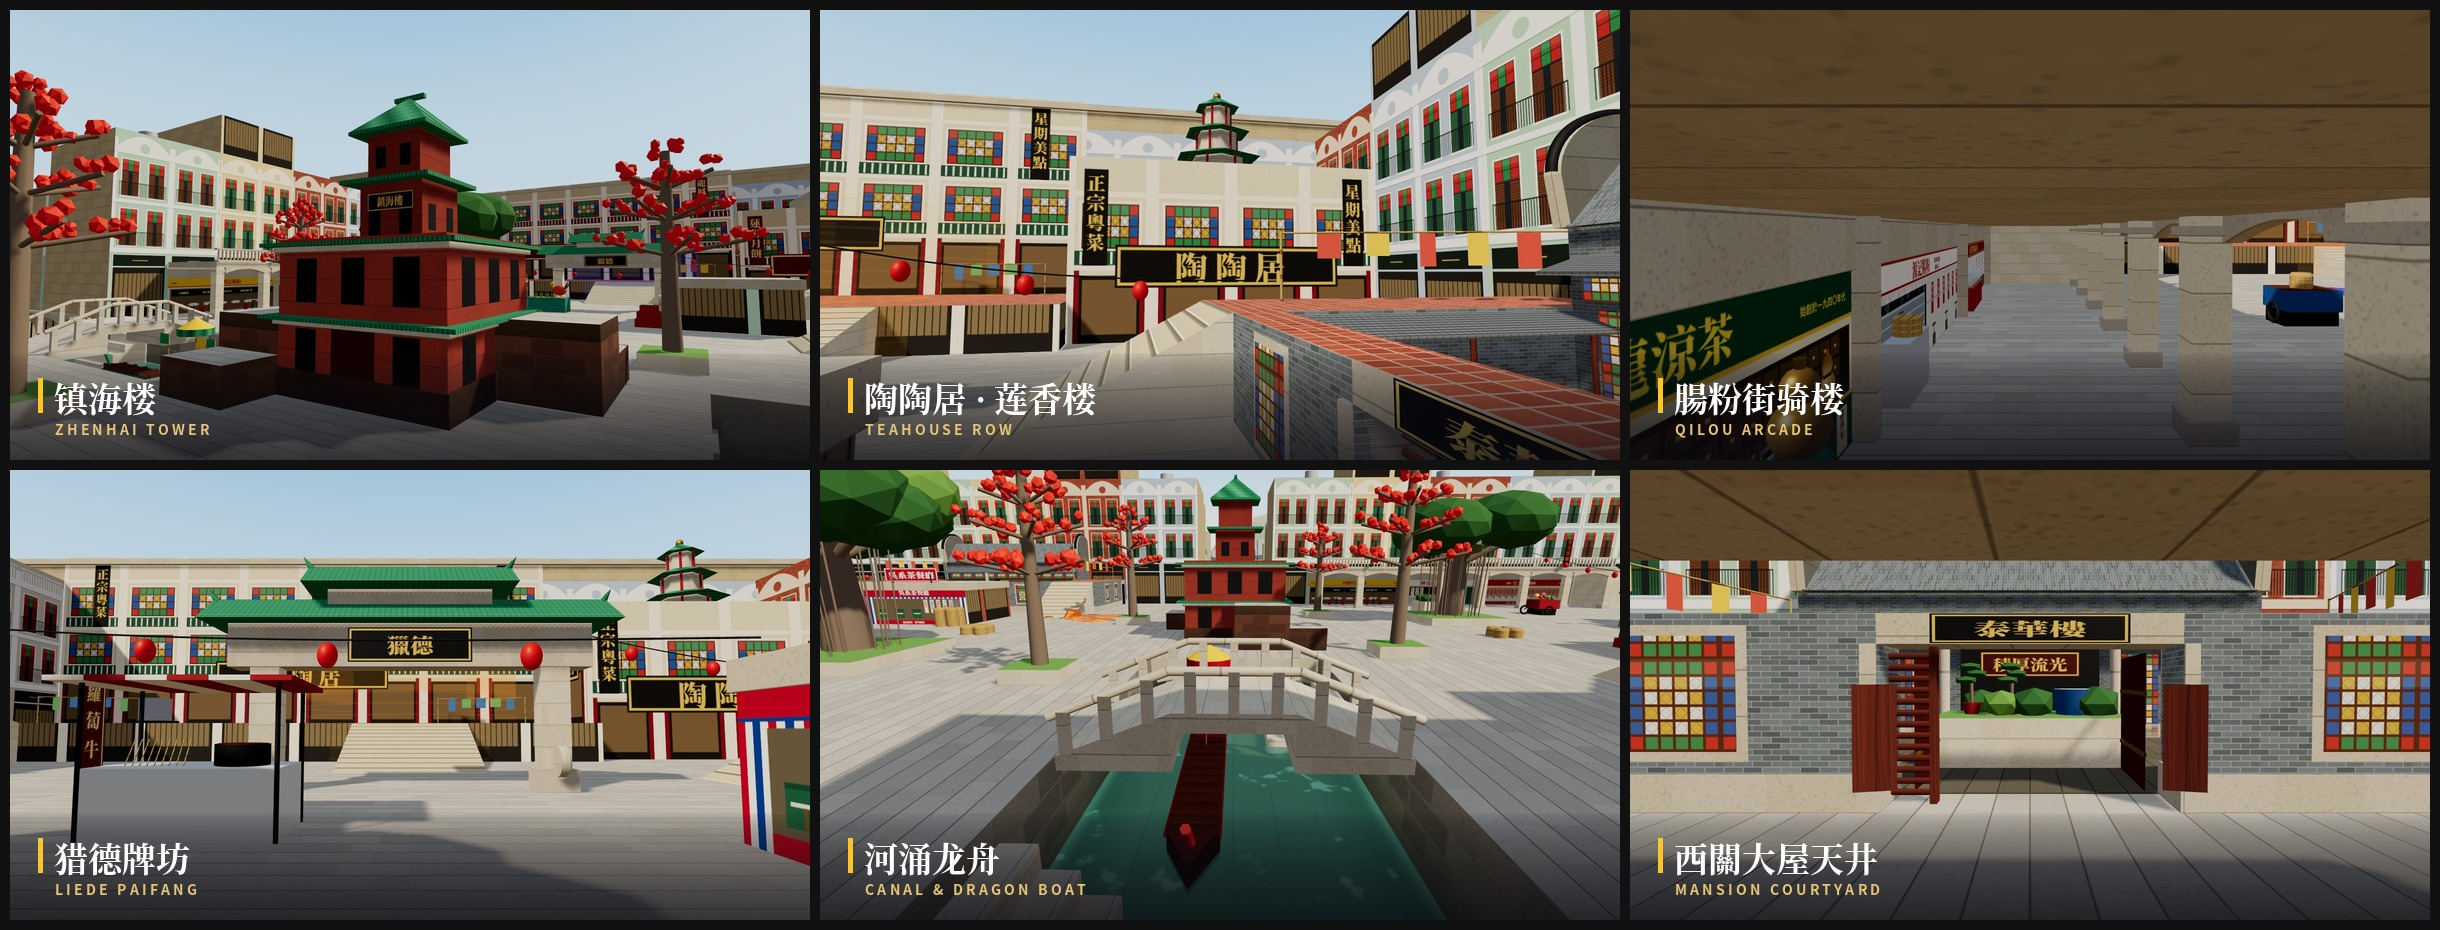
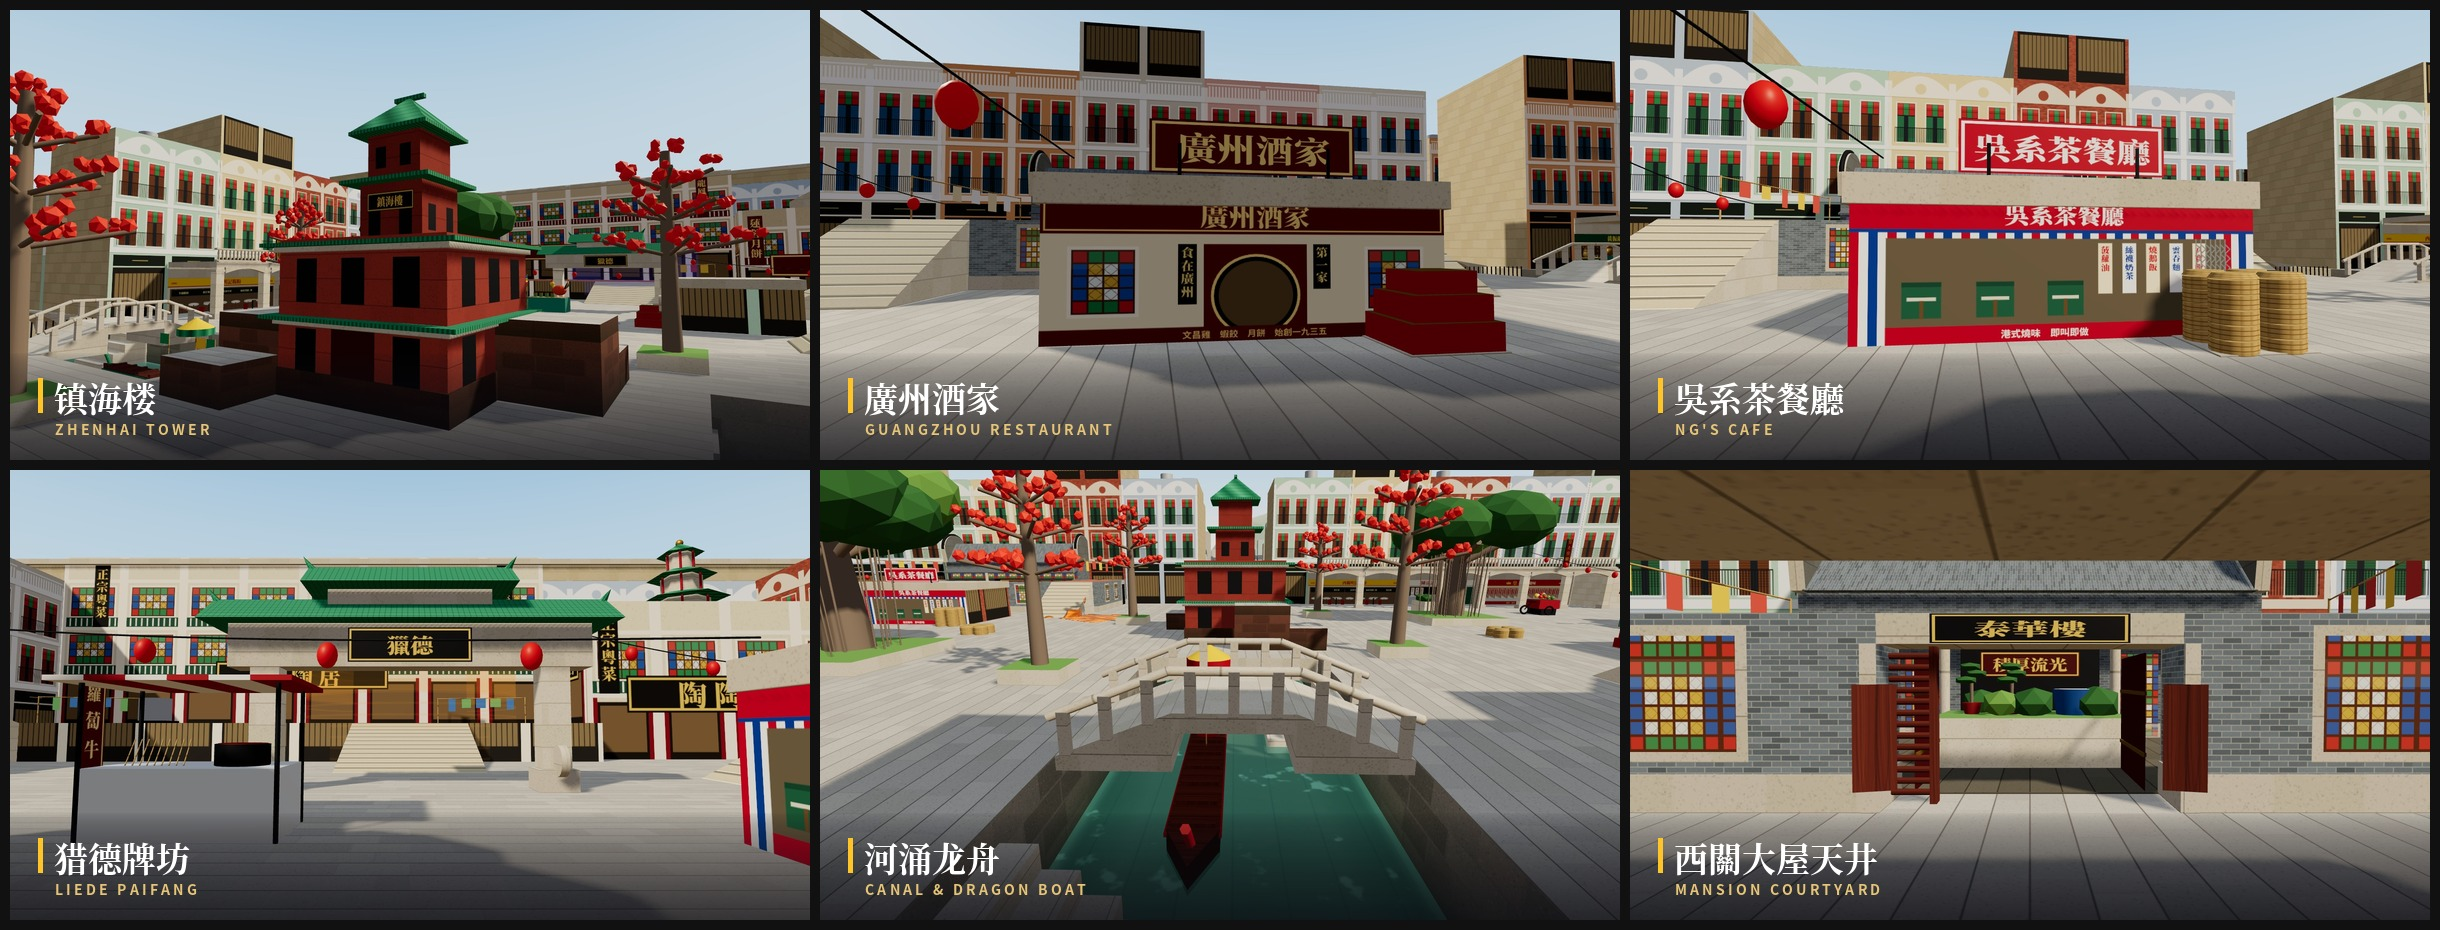
fix: 地图截图网格改为实际换上的「廣州酒家/吳系茶餐廳」版本（上次提交误含旧图）

Changed region(s): [[0.3115, 0.0, 0.9967, 0.4989]]

diff --git a/README.md b/README.md
@@ -64,7 +64,7 @@
 <p align="center">
   <img src="docs/screenshots/canton-grid.jpg" width="100%" alt="西關大屋地图场景">
 </p>
-<p align="center"><sub>默认场地「西關大屋」· 镇海楼广场、骑楼茶楼街、双层腸粉街骑楼、猎德牌坊、河涌龙舟拱桥、大屋天井趟栊门</sub></p>
+<p align="center"><sub>默认场地「西關大屋」· 镇海楼广场、廣州酒家、吳系茶餐廳、猎德牌坊、河涌龙舟拱桥、大屋天井趟栊门</sub></p>
 
 ## 🛠 开发
 
